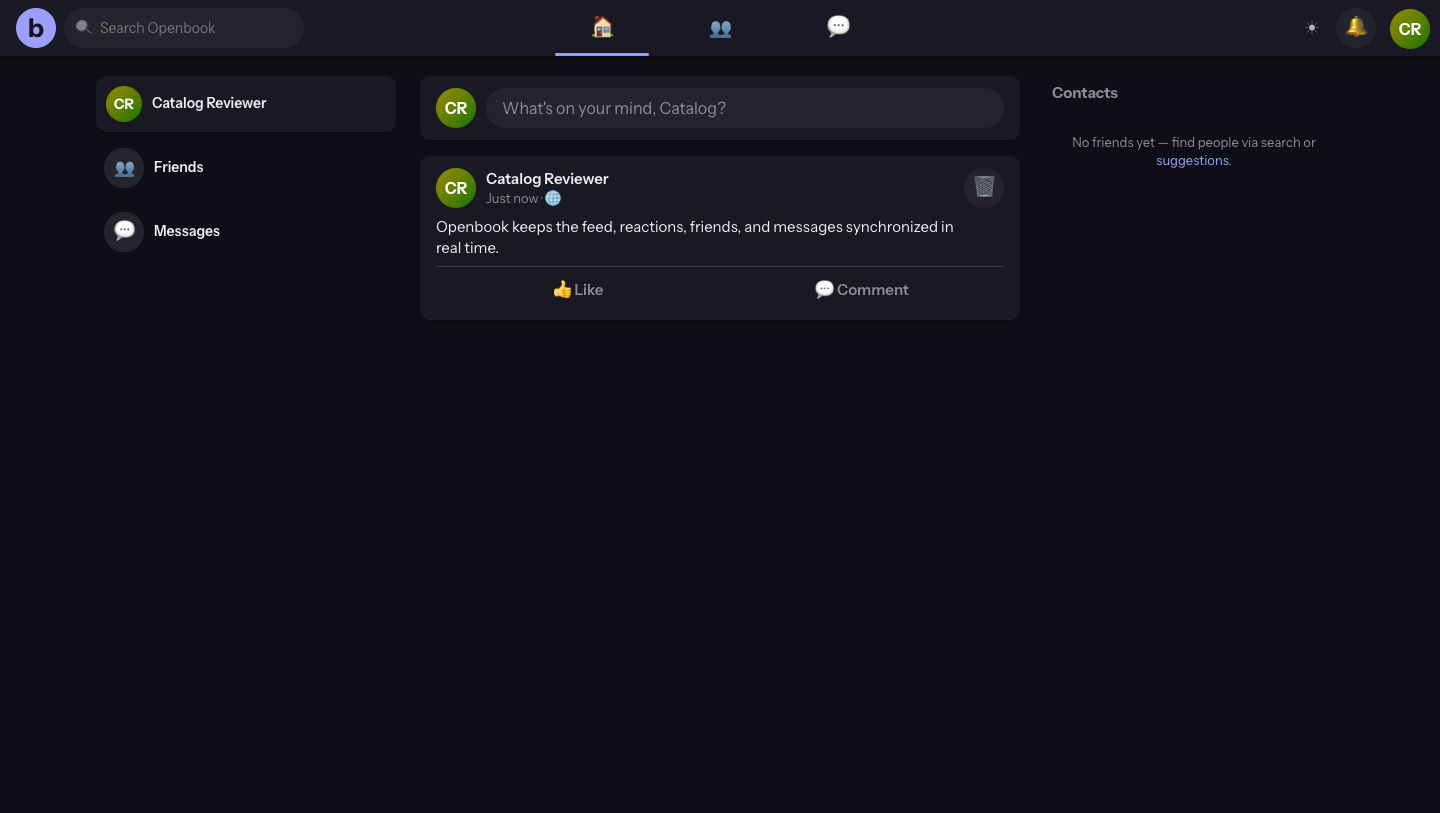
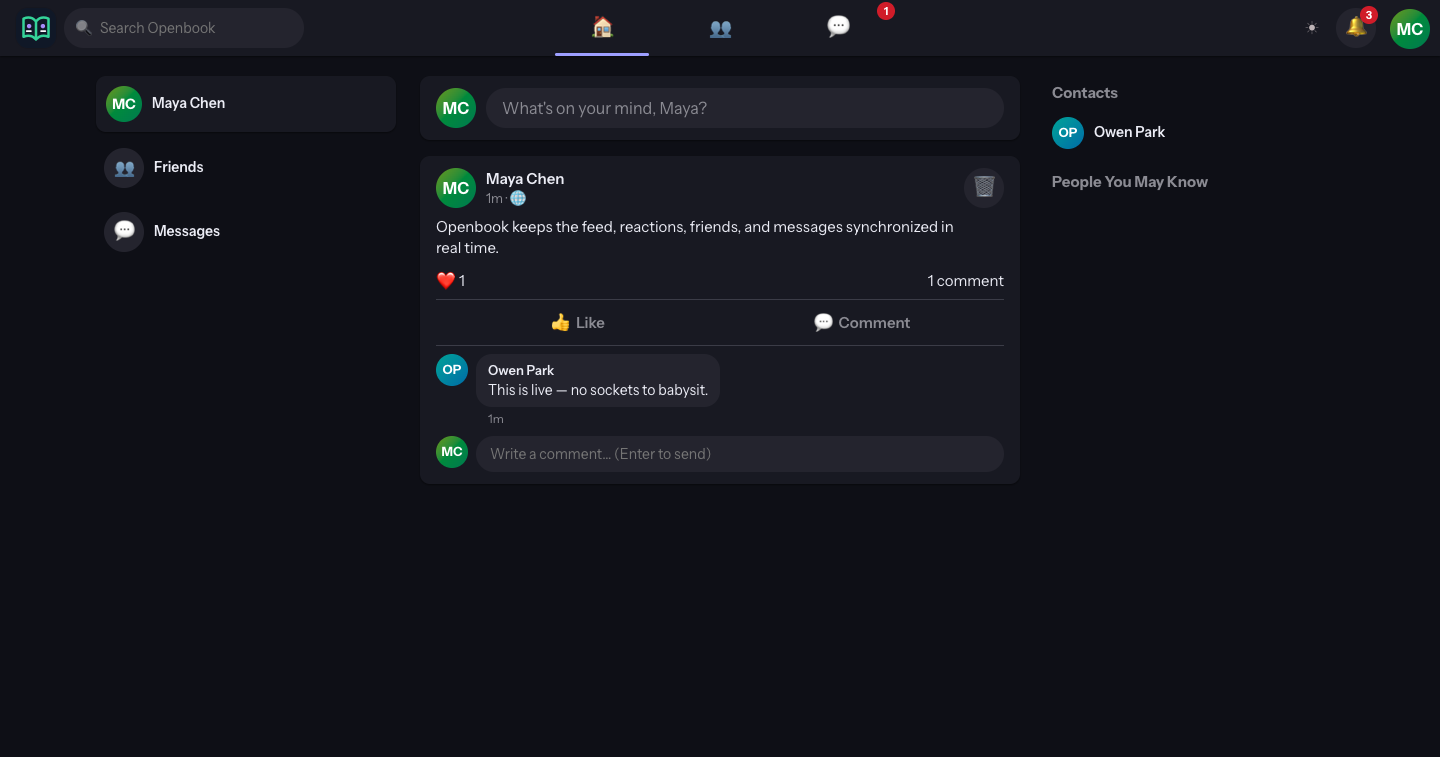
docs: drop scaffold leftovers and recapture the feed hero
README, release-facing docs, and kit files describe this web social app. The hero screenshot is a live two-user session with a reaction and a comment.

diff --git a/convex/auth.ts b/convex/auth.ts
@@ -3,16 +3,12 @@ import GitHub from "@auth/core/providers/github";
 import Google from "@auth/core/providers/google";
 import { convexAuth } from "@convex-dev/auth/server";
 
-// One auth surface for the whole suite. The same identity, sessions, and tokens
-// are consumed identically by web, mobile, and desktop via @openbook/shared.
+// Password sign-in is the product surface. GitHub and Google stay in the
+// provider list so an operator can set AUTH_GITHUB_* / AUTH_GOOGLE_* without a
+// code change; they are not shown in the web UI until that work is done.
 //
-// Providers:
-//   - Password: email + password (no external dependency).
-//   - GitHub / Google: OAuth. Credentials come from the deployment env
-//     (AUTH_GITHUB_ID/SECRET, AUTH_GOOGLE_ID/SECRET), set via `convex env set`;
-//     @auth/core reads them by convention, so listing the provider is all that's
-//     needed. The OAuth callback routes are added by auth.addHttpRoutes (http.ts).
-//     A deployment with no OAuth env still works — password sign-in is unaffected.
+// A deployment with no OAuth env still works — password sign-in is unaffected.
+// OAuth callback routes are added by auth.addHttpRoutes (http.ts).
 export const { auth, signIn, signOut, store, isAuthenticated } = convexAuth({
   providers: [Password, GitHub, Google],
 });

diff --git a/convex/env.d.ts b/convex/env.d.ts
@@ -1,5 +1,5 @@
 // Convex provides process.env to functions at runtime, but the convex/ tsc
 // typecheck has no @types/node. Declare the global here so auth.config.ts
 // (process.env.CONVEX_SITE_URL) typechecks — without pulling @types/node, which
-// would clash with the mobile app's own ambient process declaration.
+// would clash with other ambient process declarations.
 declare const process: { env: Record<string, string | undefined> };

diff --git a/convex/http.ts b/convex/http.ts
@@ -4,8 +4,7 @@ import { auth } from "./auth";
 import { internal } from "./_generated/api";
 import { verifyStripeSignature, stripeWebhookSecret } from "./lib/stripe";
 
-// Wire Convex Auth's HTTP routes (token exchange, OAuth callbacks) so every
-// client platform shares the same auth endpoints.
+// Wire Convex Auth's HTTP routes (token exchange, OAuth callbacks).
 const http = httpRouter();
 auth.addHttpRoutes(http);
 

diff --git a/apps/web/vite.config.ts b/apps/web/vite.config.ts
@@ -1,8 +1,6 @@
 import react from "@vitejs/plugin-react";
 import { defineConfig } from "vite";
 
-// Port 5173 is also what the Tauri desktop shell points at in dev, so
-// `pnpm dev:desktop` wraps the exact same running web app.
 export default defineConfig({
   plugins: [react()],
   server: { port: 5173, strictPort: true },

diff --git a/SAAS-KIT.md b/SAAS-KIT.md
@@ -1,59 +1,46 @@
-# Openbook — SaaS kit
+# Openbook — auth and billing spine
 
-This suite ships the **Convex SaaS kit**: everything a billable, authed product
-needs, wired and live-verifiable out of the box. It's the proven plumbing extracted
-from nvault-cloud, generalized. Keep what you need; delete the rest for a free app.
+Openbook is a **web** social app. Password auth works with no extra keys.
+Stripe billing is optional: the free plan caps **lifetime posts at 100**;
+Pro removes the cap. The plan panel lives on the Settings page.
 
 ## What's included
 
 | Piece | Files | What it does |
 |---|---|---|
-| **Auth + OAuth** | `convex/auth.ts` | Password + GitHub + Google (OAuth env-gated; password works alone) |
-| **Stripe billing** | `convex/billing.ts`, `convex/lib/stripe.ts`, `convex/http.ts` | Checkout + portal + a signature-verified webhook → `subscriptions` table. Dependency-free (Web Crypto, no `stripe` SDK). |
-| **Plan gating** | `convex/lib/plans.ts` | `effectivePlan` (subscription-aware) + `assertWithinLimit`. Demo: free tier caps `notes` at 50, Pro is unlimited. |
-| **Billing UI** | `apps/web/src/components/BillingPanel.tsx` | Plan + usage + Upgrade-to-Pro / Manage-billing buttons. Ships ready — add `<BillingPanel />` to `apps/web/src/App.tsx` (kept out of the shared shell so the demo app stays identical across lanes). |
-| **Tests** | `convex/lib/stripe.test.ts`, `convex/billing.test.ts` | `pnpm test` — signature verification + webhook sync + the plan gate. |
-| **Live harness** | `scripts/dev-selfhost.sh`, `scripts/verify-live.mjs`, `scripts/go-live-check.sh` | Run the whole backend locally (no cloud login) and prove it end to end. |
+| **Auth** | `convex/auth.ts` | Password sign-in. GitHub/Google providers are listed so an operator can set `AUTH_GITHUB_*` / `AUTH_GOOGLE_*`; they are not shown in the UI today. |
+| **Stripe billing** | `convex/billing.ts`, `convex/lib/stripe.ts`, `convex/http.ts` | Checkout + portal + a signature-verified webhook → `subscriptions`. Return URLs must match `SITE_URL` or a local http host. |
+| **Plan gating** | `convex/lib/plans.ts` | `effectivePlan` + `assertWithinLimit`. Free: 100 posts. Pro: unlimited. |
+| **Billing UI** | `apps/web/src/components/BillingPanel.tsx` | Mounted on Settings. Without Stripe keys, Upgrade surfaces the setup error. |
+| **Tests** | `convex/lib/stripe.test.ts`, `convex/billing.test.ts` | Signature verification, return-URL allowlist, webhook sync, plan gate. |
+| **Live harness** | `scripts/dev-selfhost.sh`, `scripts/verify-live.mjs`, `scripts/go-live-check.sh` | Local OSS backend + over-the-wire social proof. |
 
 ## Prove it works in 2 minutes (no cloud login, no keys)
 
 ```bash
 pnpm install
-pnpm test                      # convex-test: signature + billing sync + gate
-bash scripts/dev-selfhost.sh   # OSS Convex backend in Docker + push functions
-node scripts/verify-live.mjs   # signup → synced note → free plan (Stripe step SKIPs w/o keys)
+pnpm test
+bash scripts/dev-selfhost.sh
+node scripts/verify-live.mjs
 docker rm -f openbook-convex
 ```
 
 ## Turn on billing (Stripe TEST mode)
 
 ```bash
-# 1) Create the Pro price once (test mode); save the price_…
 stripe prices create --unit-amount 900 --currency usd -d "recurring[interval]=month" \
   -d "product_data[name]=Openbook Pro"
-# 2) Set keys on the deployment (self-hosted or cloud):
 npx convex env set STRIPE_SECRET_KEY sk_test_…
-npx convex env set STRIPE_WEBHOOK_SECRET whsec_…     # from `stripe listen --forward-to <site>/stripe/webhook`
+npx convex env set STRIPE_WEBHOOK_SECRET whsec_…
 npx convex env set STRIPE_PRICE_PRO price_…
-# 3) verify-live now exercises a real Checkout; the BillingPanel "Upgrade" works.
-node scripts/verify-live.mjs
+npx convex env set SITE_URL http://localhost:5173
 ```
 
-## Go live (the operator-gated last mile)
-
-```bash
-npx convex deploy                  # prod deployment
-pnpm auth:setup                    # generate the Convex Auth signing key (or set JWT_PRIVATE_KEY + JWKS)
-npx convex env set ...             # OAuth (AUTH_GITHUB_*/AUTH_GOOGLE_*), Stripe (sk_live_…), email
-bash scripts/go-live-check.sh      # preflight: every payment-critical var set + Stripe reachable?
-pnpm --filter web build            # static web bundle → any CDN; point VITE_CONVEX_URL at the deployment
-```
-
-`go-live-check.sh` exits non-zero until a stranger can sign up (and pay, if you kept billing).
+Then Settings → Upgrade to Pro.
 
 ## Make it a free app
 
 Delete `convex/billing.ts`, `convex/lib/{stripe,plans}.ts`, `convex/lib/*.test.ts`,
 `apps/web/src/components/BillingPanel.tsx`, the `subscriptions` table in
-`convex/schema.ts`, the `/stripe/webhook` route in `convex/http.ts`, and the plan
-gate in `convex/notes.ts`. Auth + sync remain.
+`convex/schema.ts`, the `/stripe/webhook` route in `convex/http.ts`, and the
+plan gate in `convex/posts.ts`. Auth and the social graph remain.

diff --git a/README.md b/README.md
@@ -27,10 +27,11 @@ signup and post. It is the reviewed evidence declared in
 - **Reactions** — the classic six (👍❤😆😮😢😡), one per user per post,
   hover picker, denormalized tallies kept exact in the same transaction.
 - **Comments** — inline threads with exact counts and owner/author delete rights.
+  Comment and reaction APIs use the same visibility rule as the feed.
 - **Notifications** — bell with unread badge for friend requests, accepts,
   reactions, and comments; mark-read / mark-all-read.
-- **Messages** — per-pair conversations, realtime delivery, unread accounting,
-  read receipts, conversation previews.
+- **Messages** — friends-only threads, realtime delivery, unread accounting,
+  conversation previews. Existing threads stay readable after unfriend.
 - **People search** — full-text search index over display names, live from the nav bar.
 - **SaaS spine** (from the scaffold) — Stripe-mirrored subscriptions; the free
   tier caps lifetime posts at 100, Pro lifts it (`convex/lib/plans.ts`).
@@ -41,7 +42,7 @@ signup and post. It is the reviewed evidence declared in
 |---|---|
 | Local stack | `pnpm install` then `pnpm selfhost` and `pnpm dev` (see Quick start) |
 | Cloud | `npx convex dev --once && pnpm auth:setup && pnpm dev` |
-| Tests | `make test` or `pnpm test` (28 unit tests) |
+| Tests | `make test` or `pnpm test` |
 | Live check | `node scripts/verify-live.mjs` against a running Convex URL |
 | Publish gate | `make publish-ready` |
 
@@ -69,25 +70,24 @@ CONVEX_PORT=3310 CONVEX_SITE_PORT=3311 pnpm selfhost   # Docker OSS Convex + key
 
 Or against Convex cloud: `npx convex dev --once && pnpm auth:setup && pnpm dev`.
 
-## Verification (all green as of 2026-07-13)
+## Verification (unit + types as of 2026-08-20)
 
 | Gate | Command | Result |
 |---|---|---|
 | Types | `pnpm typecheck` | 2/2 packages clean |
-| Unit (simulated backend) | `pnpm test` / `make test` | 28/28 (social rules + billing gate + stripe + suggestion pending exclusion) |
-| Live E2E (real backend) | `CONVEX_SELF_HOSTED_URL=http://127.0.0.1:3310 node scripts/verify-live.mjs` | 19/19 — 3 users over the wire: search → friend → feed visibility → react → comment → notify → DM unread → delete cascade |
-| Browser console | `ndev browser exec <s> console --kind js --fail-on-error` | 0 errors |
-| Production build | `pnpm build` | ✓ (Vite production bundle) |
-| Publication boundary | `pnpm verify:publication` / `make publish-ready` | Go publication-tool tests, types, 28 application tests, build, production dependency licenses, and both secret-scan modes pass |
+| Unit (simulated backend) | `pnpm test` / `make test` | 37/37 (social rules, visibility on comments/reactions, feed fill, billing, Stripe) |
+| Live E2E (real backend) | `CONVEX_SELF_HOSTED_URL=http://127.0.0.1:3310 node scripts/verify-live.mjs` | 22 checks — 3 users over the wire: search → friend → feed visibility → stranger cannot comment/react → react → comment → notify → DM unread → delete cascade |
+| Production build | `pnpm build` | Vite production bundle |
+| Publication boundary | `pnpm verify:publication` / `make publish-ready` | Go publication-tool tests, types, application tests, build, production dependency licenses, and both secret-scan modes |
 
 The live E2E is the same script that verifies a cloud deployment — point
 `VITE_CONVEX_URL` at it and re-run.
 
 ## Domain rules worth knowing
 
-- **Visibility lives in one function** — `lib/social.ts::postVisibleTo`; both
-  `posts.feed` and `posts.forProfile` filter server-side, so a hidden post
-  never reaches a client.
+- **Visibility lives in one function** — `lib/social.ts::postVisibleTo`. Feed,
+  profile, `posts.get`, comments, and reactions all use it, so a hidden post
+  never reaches a client and cannot be commented on or reacted to.
 - **Tallies are denormalized but exact** — `reactionCounts`/`commentCount`
   move in the same mutation transaction as the child row; tests pin add /
   switch / remove arithmetic.

diff --git a/convex/README.md b/convex/README.md
@@ -1,14 +1,17 @@
 # Backend — Convex Realtime
 
-This `convex/` directory is the **single backend** every platform syncs against.
+This `convex/` directory is the **web** backend. Openbook ships one client:
+`apps/web`. There is no mobile or desktop app in this repository.
 
-- `schema.ts` — the document schema (auth tables + the `notes` demo collection).
-- `auth.ts` / `auth.config.ts` / `http.ts` — Convex Auth: one identity shared by web, mobile, and desktop.
-- `notes.ts` — reactive `query`/`mutation` functions. `list` is a live subscription: every client re-renders the moment any platform writes.
+- `schema.ts` — auth tables plus profiles, posts, comments, reactions,
+  friendships, notifications, conversations, messages, and billing.
+- `lib/social.ts` — pair keys, post visibility, enrichment, notification
+  fan-out. Comments and reactions call `requireVisiblePost` / `loadVisiblePost`.
+- `auth.ts` / `auth.config.ts` / `http.ts` — Convex Auth (password; optional
+  GitHub/Google when those env vars are set) and the Stripe webhook.
+- `_generated/` is **committed** so a clean checkout can typecheck and test
+  before a Convex deployment exists. Regenerate with `npx convex codegen`
+  or `npx convex dev --once`.
 
-`_generated/` (the typed API + data model) is created by `npx convex dev` and is
-gitignored. `@openbook/shared` re-exports it so the apps never reach across
-the repo for it.
-
-Run `npx convex dev` from the repo root to provision a deployment and start the
-backend in watch mode.
+Run `npx convex dev` from the repo root against Convex cloud, or
+`pnpm selfhost` for the local OSS backend.

diff --git a/docs/case-study.md b/docs/case-study.md
@@ -14,8 +14,8 @@ test harness, live verification scripts, and independently buildable UI layer.
 
 ## Key decisions
 
-- Enforce public-versus-friends visibility on the server rather than filtering
-  private posts only in the browser.
+- Enforce public-versus-friends visibility on the server for post body,
+  comments, and reactions — not only the feed list.
 - Keep reaction tallies transactionally consistent with one reaction row per
   user and post.
 - Model notifications and message unread state as realtime backend data so
@@ -28,9 +28,10 @@ test harness, live verification scripts, and independently buildable UI layer.
 
 The application implements profiles, friend requests and suggestions, an
 audience-scoped paginated feed, six reactions, comments, notifications,
-realtime direct messages, unread accounting, and indexed people search. Local
+realtime direct messages, unread accounting, and indexed people search.
+Comments and reactions use the same visibility rule as the feed. Local
 publication verification passes both Go publication-tool suites, TypeScript
-checks, 28 Convex tests, a production build, dependency-license review, and
+checks, 37 Convex tests, a production build, dependency-license review, and
 both secret-scan modes.
 Public GitHub Actions CI on `main` runs the same publication gate.
 

diff --git a/CONTRIBUTING.md b/CONTRIBUTING.md
@@ -7,7 +7,7 @@ human-gated.
 
 ```sh
 pnpm install
-make test                 # 28 convex-test social + billing unit tests
+make test                 # convex-test social + billing unit tests
 make verify               # typecheck + test + build
 # Optional live backend:
 CONVEX_PORT=3310 CONVEX_SITE_PORT=3311 pnpm selfhost
@@ -26,7 +26,8 @@ CONVEX_PORT=3310 CONVEX_SITE_PORT=3311 pnpm selfhost
 
 ## Domain rules (read before changing feed/friends/DMs)
 
-1. **Visibility** lives in `postVisibleTo` — both feed and profile filters use it.
+1. **Visibility** lives in `postVisibleTo`. Feed, profile, `posts.get`,
+   comments, and reactions all use it.
 2. **Tallies** (`reactionCounts`, `commentCount`) update in the same mutation as the child row.
 3. **Notifications never self-ping**; reaction kind switches do not re-notify.
 4. **One row per pair** for friendships and conversations (`pairKey`).

diff --git a/screenshots/README.md b/screenshots/README.md
@@ -1,11 +1,12 @@
 # Screenshots
 
-The README shows the local self-hosted feed.
+The README hero is a live self-hosted session (2026-08-20): two accounts,
+a public post, a reaction, an inline comment, unread message and notification
+badges, and the authored book mark.
 
 | File | What it shows |
 | --- | --- |
-| [../portfolio/assets/realtime-feed.png](../portfolio/assets/realtime-feed.png) | Feed after a real signup and post |
+| [../portfolio/assets/realtime-feed.png](../portfolio/assets/realtime-feed.png) | Maya Chen's feed after Owen Park reacted and commented |
 
-The current hero is sparse (one post, empty friends). A seeded recapture
-of friends, reactions, and messages should replace it when the local
-Convex stack is up.
+Fixture users from `scripts/verify-live.mjs` were removed from the frame
+before capture so the hero does not show E2E display names.

diff --git a/AGENTS.md b/AGENTS.md
@@ -2,8 +2,9 @@
 
 - Package manager: **pnpm** (frozen lockfile in CI).
 - Verification: `pnpm verify:publication` / `make publish-ready` (local only; no push).
-- Tests: `pnpm test` (vitest + convex-test, **28**). Do not invent browser E2E unless
-  `scripts/verify-live.mjs` is already in scope.
+- Tests: `pnpm test` (vitest + convex-test). Do not invent browser E2E unless
+  `scripts/verify-live.mjs` is already in scope. Visibility must apply to
+  comments and reactions, not only the feed.
 - Never commit `.env.local` or Convex deploy keys.
 - Comparative Facebook/Meta branding is forbidden in product copy.
 - Brand mark: `assets/brand/openbook.svg` (+ `apps/web/public/` for runtime favicon/logo).

diff --git a/docs/2026-07-12-publication-readiness.md b/docs/2026-07-12-publication-readiness.md
@@ -23,7 +23,7 @@ Reviewed: 2026-07-13 · re-verified **2026-07-20** (`pnpm verify:publication` + 
   checkout to typecheck and test before any Convex deployment is provisioned.
 - Facebook/Meta comparative branding was removed from product copy and source
   comments. No Facebook or Meta code, logos, images, or assets are present.
-- Both Go publication-tool suites, typecheck, 28 Convex tests, production
+- Both Go publication-tool suites, typecheck, Convex tests, production
   build, license audit, and both secret-scan modes pass through
   `pnpm verify:publication`.
 - `.github/workflows/ci.yml` runs the publication gate on the public repo.
